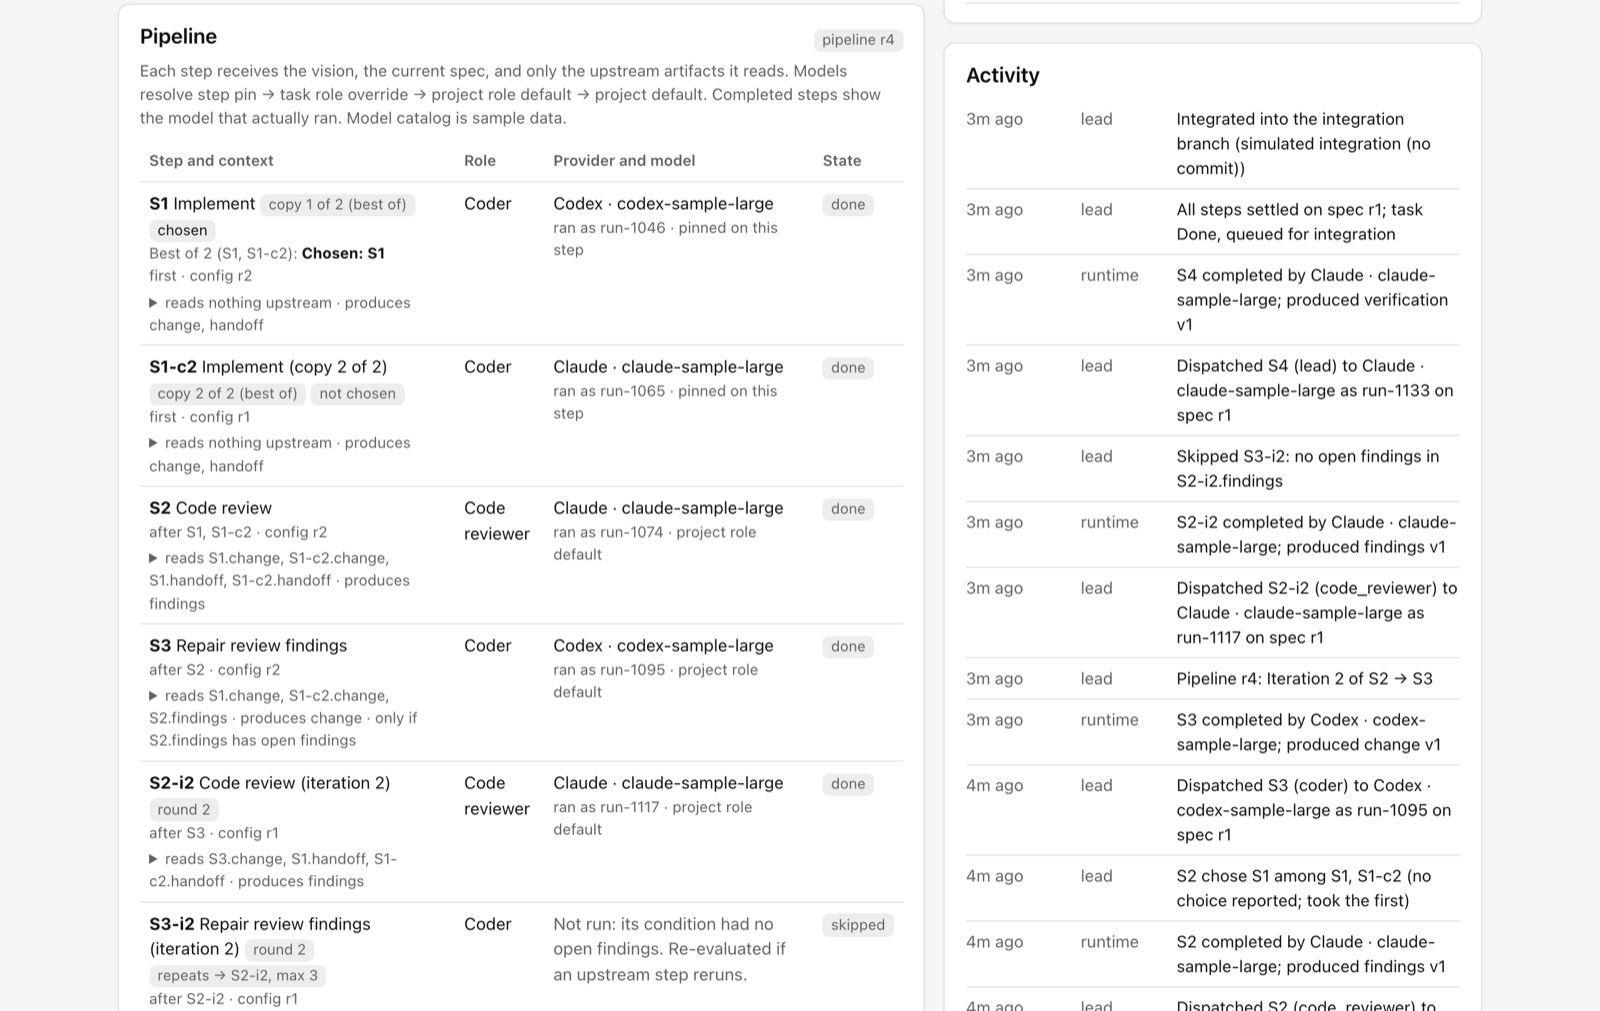
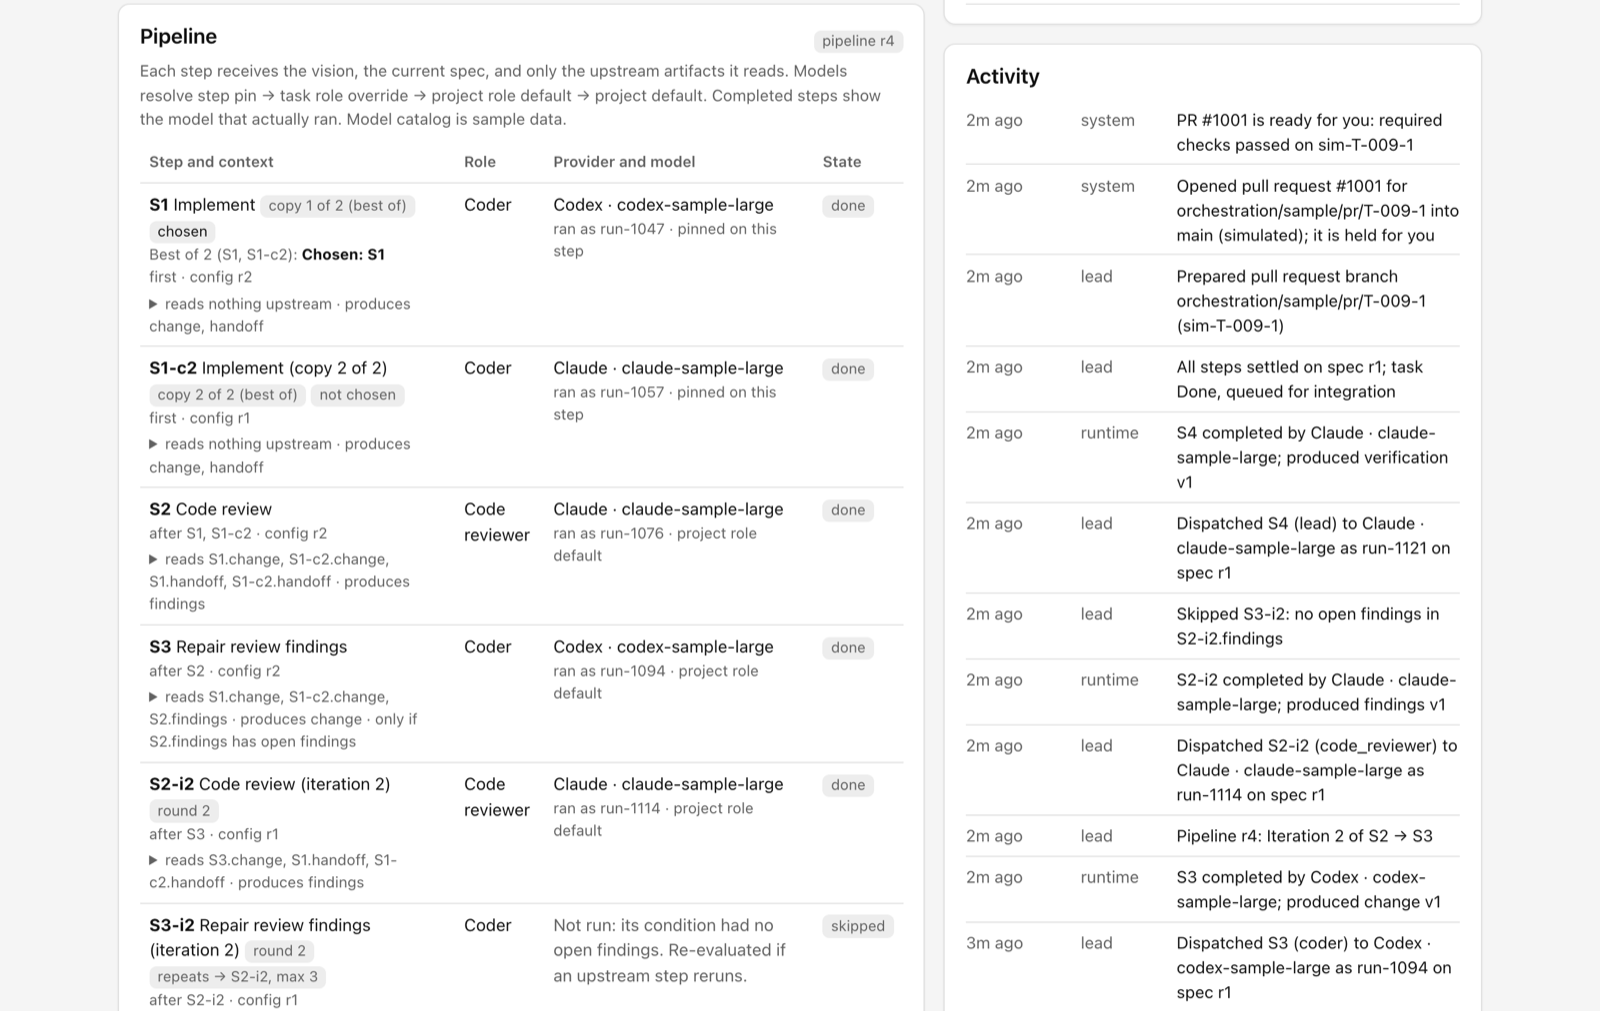
README and screenshots for pull-request delivery and steering; ORC-009 completion evidence

diff --git a/src/ui/styles.css b/src/ui/styles.css
@@ -128,6 +128,7 @@ button.primary:hover:not(:disabled) { filter: brightness(1.07); background: var(
 button.danger { color: var(--s-blocked); border-color: var(--danger-border); }
 button.link { border: none; background: none; padding: 0; color: var(--accent); text-decoration: underline; }
 button.small { padding: 0.15rem 0.55rem; font-size: 0.85rem; }
+select { max-width: 100%; }
 select, input[type="text"], input[type="number"], input[type="time"], textarea {
   background: var(--surface);
   border: 1px solid var(--border-strong);

diff --git a/docs/tasks/ORC-009.md b/docs/tasks/ORC-009.md
@@ -4,7 +4,7 @@
 
 - ID and title: ORC-009, steering by conversation. When you give direction, the lead changes the focus, reorders work, defers work that no longer fits, and drops its own unstarted proposals. Every change is listed, attributed and undoable.
 - Author and timestamps: Lead (Claude), 2026-09-29
-- Status, priority, and priority rationale: Proposed, P1. The user asked for this directly: "I want to be able to chat with the lead if I want to steer while it works, for example I want it to focus more on building out the apps working locally vs focus automating the deployment process." Today the lead can only reply and propose new tasks, so every redirection is manual: editing the focus, priorities and pauses by hand. That works against the user's preference for autopilot with optional human review.
+- Status, priority, and priority rationale: Completed, P1. The user asked for this directly: "I want to be able to chat with the lead if I want to steer while it works, for example I want it to focus more on building out the apps working locally vs focus automating the deployment process." Today the lead can only reply and propose new tasks, so every redirection is manual: editing the focus, priorities and pauses by hand. That works against the user's preference for autopilot with optional human review.
 - Specification revision: 1
 - Project vision revision: PROJECT_SPEC.md as of 2026-09-29. The relevant lines:
   - l.17: the user steers or redirects the lead.
@@ -258,14 +258,26 @@ Each step is resolved to a concrete enabled provider and model at dispatch, and 
 
 ## Completion evidence
 
-Not started. The work is complete when all of the following exist:
+**Built on branch `steer-lead` by one implementer, then reviewed independently.**
 
-- the changed files
-- R1 and R2 findings with their resolutions
-- the check outputs with test counts
-- the mutation-check results
-- browser screenshots (light, dark, 375 px)
-- the real Claude-led and Codex-led steering evidence JSON under `evidence/`
-- the delivered spec revision
+| Commit | What |
+| --- | --- |
+| `8560069` | The implementation: steering block in lead replies, strict validation, focus/priority/defer/drop, undo and apply, the three steering modes, preemption of planning runs, the lead drawer on every page, and state format 11. |
+| `233e677` | Fixes for the review's 17 findings (1 high, 7 medium, 9 low), with a regression test for each high and medium one. |
 
-Anything not verified with real providers will be listed as not verified.
+**The high finding:** the lead could defer the app's own pull-request review and fix tasks, which left a pull request waiting forever with no visible reason. Those tasks are now not steerable and are left out of the lead's board.
+
+**Checks** (2026-09-30):
+
+- `npm run typecheck` is clean, `npm test` passes (501 tests), and `npm run build` passes.
+- Mutation checks: 16 guards in the implementation and 13 in the fixes were each reverted in turn, and each revert made a test fail.
+- Browser pass on the simulated runtime:
+  - The lead drawer was opened from the Tasks page.
+  - The message "Focus more on getting the app working locally, not on automating deployment." was sent.
+  - The simulated lead's reply listed a focus change and one deferred task, each with Undo.
+  - "Undo all" restored the previous focus and removed the deferral.
+
+**Not verified:**
+
+- Steering with a real Claude or Codex lead. Every lead in the tests and the browser pass was scripted or simulated.
+- The drawer's keyboard handling (Esc, focus trap) and the narrow-screen layout were reviewed in code, not exercised in a browser.

diff --git a/README.md b/README.md
@@ -60,11 +60,27 @@ I wanted my own agent orchestration tool, one I can quickly edit and extend with
 
 ## Screenshots
 
-All screenshots show the built-in sample project on the simulated runtime (no agents running).
+All screenshots show the built-in sample project on the simulated runtime: no agents are running, and the pull requests are simulated.
 
 **Tasks board.** Every task has a spec, a pipeline, and a truthful state. Child tasks link to the goal they came from.
 
 ![Tasks board](docs/screenshots/board.png)
+
+**Steering by conversation.** You tell the lead what to focus on, from any page, while work continues. The reply lists exactly what changed (here a new focus and one deferred task), and each change has an Undo.
+
+![Steering the lead from the board](docs/screenshots/steering.png)
+
+**Pull requests that need you.** Each finished task becomes one pull request. The card shows the independent review and a checklist of what must hold before it merges. Here the pull request is held for you.
+
+![Review page: pull requests that need you](docs/screenshots/review.png)
+
+**Review after it lands.** Everything that landed is listed with its summary, agent review, and checks. You can mark it reviewed, leave a note, or send it back as a fix or a revert.
+
+![Review page: landed work](docs/screenshots/landed.png)
+
+**Delivery settings.** Choose one: off, a local branch, or GitHub pull requests. With pull requests, choose whether each one is held for you or merged automatically after an independent review and passing checks.
+
+![Delivery settings](docs/screenshots/delivery-settings.png)
 
 **A large goal broken into child tasks.** The Goal template plans the work as child tasks and waits for them. Then it evaluates the result and plans the next round.
 
